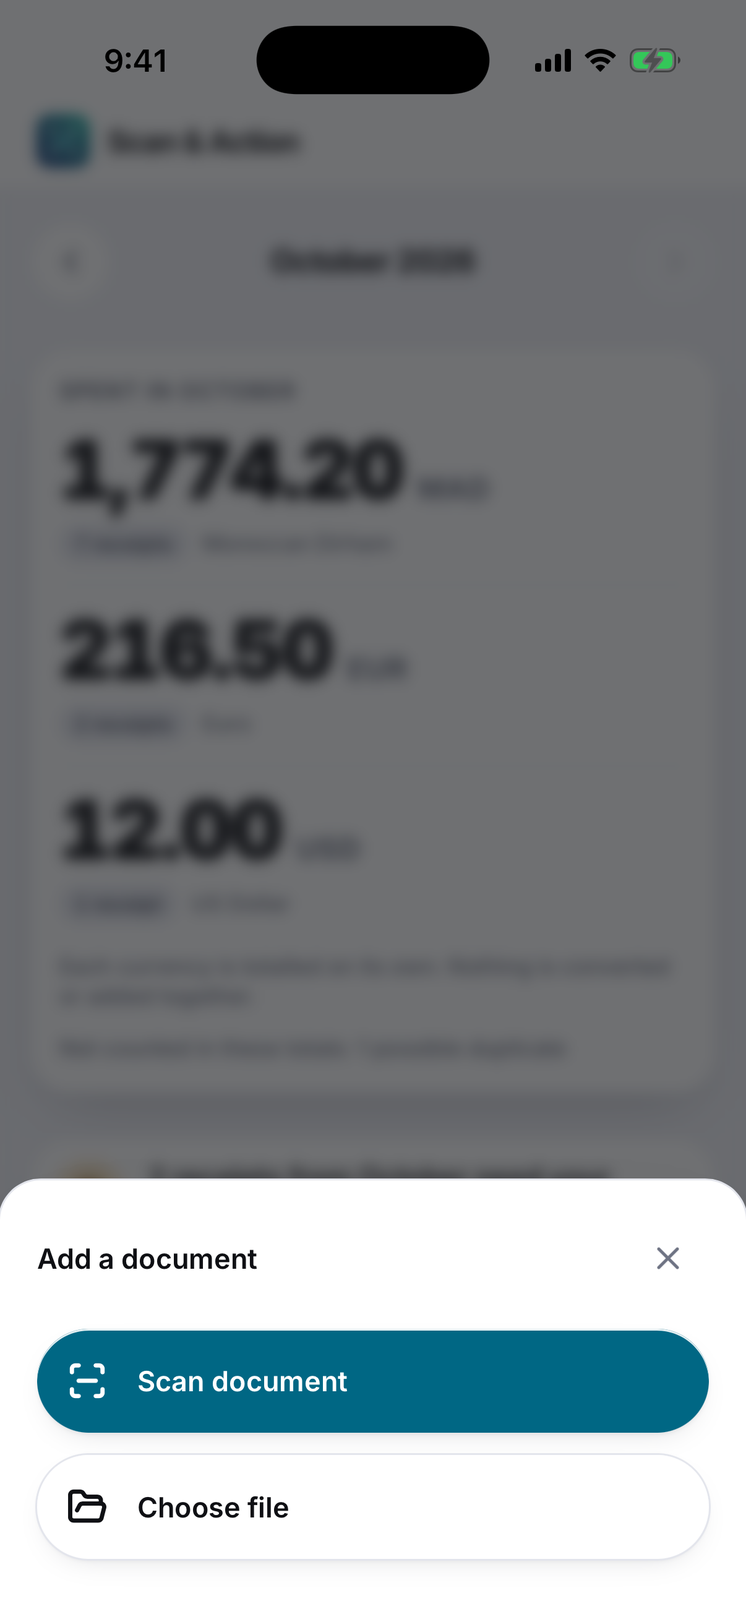
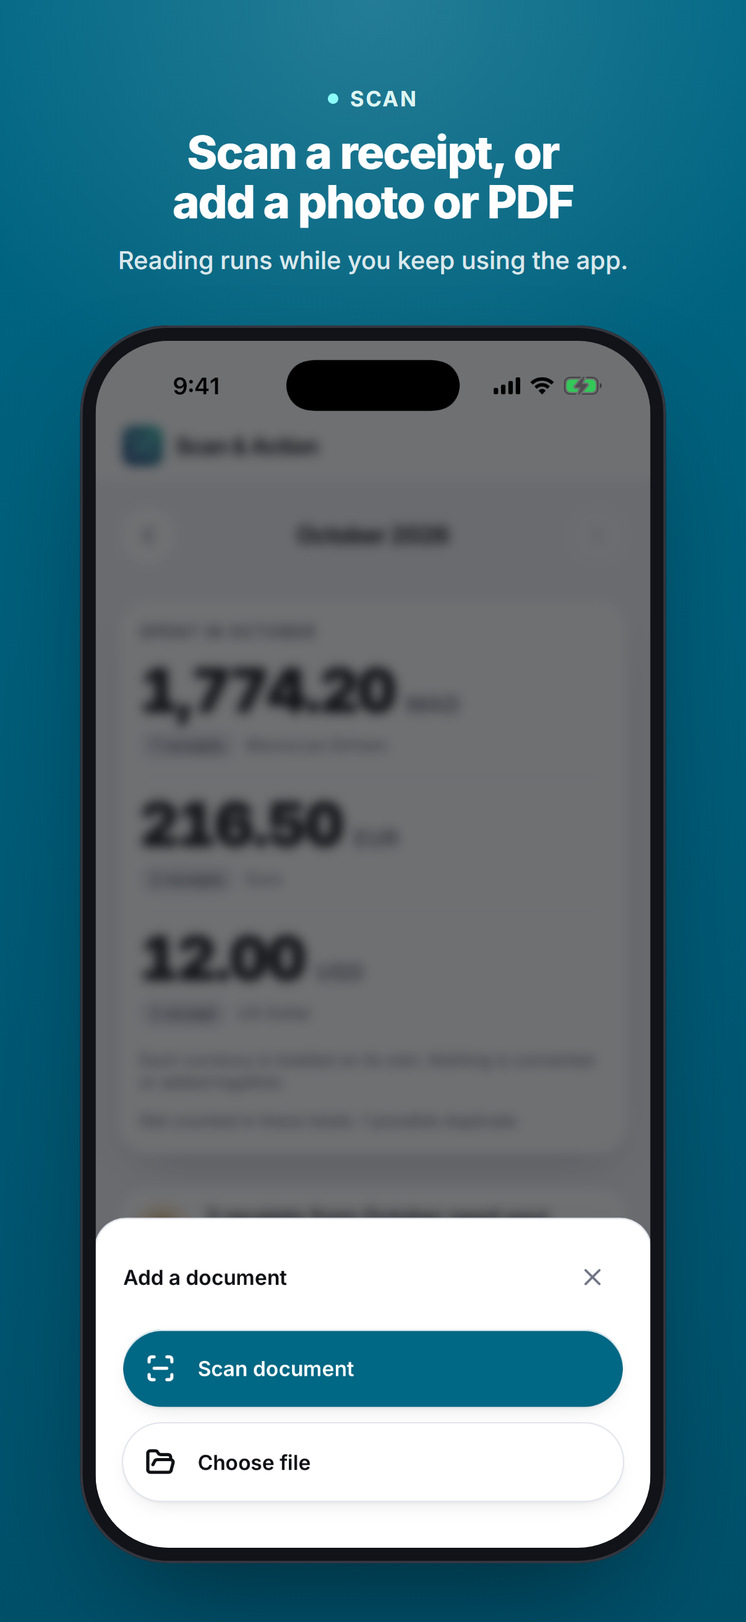
store: the approved App Store set (direction C), its template, the board record of 2026-10-15
The owner rejected the plain set (#328) as a store presentation and
approved direction C: each frame a real simulator capture of the app
inside a phone drawn in CSS, on the brand teal, under a caption he
approved word for word. Captures from run 38803643978 (frames 1, 2, 4,
5; app at 1449e6f8) and run 38763571358 (frame 3: the newer run shot
Detail before the receipt photo loaded; app code and fixtures identical
between the runs). Composed by source/frame-c.html and source/render-c.sh
at the slots' exact pixels, RGB, no alpha; the ten files are byte-
identical to the reviewed page.

WORK-QUEUE.md records the day: the merges of #327 and #328, the push
event GitHub never processed on 1449e6f8 and the probe this merge is, the
App Store Connect state as set, the privacy checks, the sign-in keyboard
finding, and the post-launch queue-reason item. Nothing under apps/ or
.github/ changes.

diff --git a/store/app-store/1.0/source/frame-c.html b/store/app-store/1.0/source/frame-c.html
@@ -1,0 +1,62 @@
+<!doctype html>
+<html><head><meta charset="utf-8">
+<link rel="stylesheet" href="https://fonts.googleapis.com/css2?family=Inter:wght@500;700;800&display=swap">
+<style>
+/* Direction C, complete phone. One composition in "u" units (1u = canvas width / 440),
+   so 1320 x 2868 (440 x 956 CSS at 3x) and 1206 x 2622 (402 x 874 CSS at 3x) are the
+   same picture at two sizes. Caption box and phone box are fixed: same scale, same
+   caption position, same margins on every frame. */
+html, body { margin: 0; background: #00506A; }
+#c { position: relative; overflow: hidden; width: var(--W); height: var(--H);
+  font-family: Inter, system-ui, sans-serif; color: #FFFFFF; background: linear-gradient(180deg, #006784 0%, #00506A 100%); }
+#c::before { content: ''; position: absolute; inset: 0; background: radial-gradient(90% 40% at 50% 0%, rgba(255,255,255,.14), rgba(255,255,255,0) 70%); }
+#cap { position: absolute; left: calc(18 * var(--u)); right: calc(18 * var(--u)); top: calc(44 * var(--u)); height: calc(160 * var(--u)); text-align: center; overflow: hidden; }
+#eye { display: inline-flex; align-items: center; gap: calc(7 * var(--u)); font-size: calc(12.5 * var(--u)); font-weight: 700; letter-spacing: .08em; text-transform: uppercase; color: #DFF4F2; margin-bottom: calc(10 * var(--u)); }
+#eye i { width: calc(6 * var(--u)); height: calc(6 * var(--u)); border-radius: 99px; background: #8CFCF9; display: inline-block; }
+#t { margin: 0; font-weight: 800; font-size: calc(27 * var(--u)); line-height: 1.08; letter-spacing: -.025em; text-wrap: balance; }
+#s { margin: calc(10 * var(--u)) auto 0; font-weight: 500; font-size: calc(14.5 * var(--u)); line-height: 1.35; color: rgba(255,255,255,.86); text-wrap: balance; }
+/* The phone: a generic body drawn in CSS around the full simulator capture. */
+#dev { position: absolute; left: 50%; transform: translateX(-50%); top: calc(192 * var(--u)); height: calc(730 * var(--u));
+  aspect-ratio: auto; padding: calc(9 * var(--u)); box-sizing: border-box; border-radius: calc(52 * var(--u)); background: #121318;
+  box-shadow: inset 0 0 0 calc(1.5 * var(--u)) #34363F, 0 calc(34 * var(--u)) calc(70 * var(--u)) calc(-26 * var(--u)) rgba(0,20,28,.65); }
+#dev img { display: block; height: 100%; width: auto; border-radius: calc(43 * var(--u)); }
+#check { display: none; }
+</style></head>
+<body><div id="c"><div id="cap"><div id="eye"><i></i><span id="e"></span></div><h1 id="t"></h1><p id="s"></p></div><div id="dev"><img id="img" alt=""></div></div>
+<pre id="check"></pre>
+<script>
+// The approved captions, exactly (owner, 2026-10-15).
+const FRAMES = {
+  1: ['Home', 'See what this month cost, in each currency', 'Each currency is totalled on its own, never converted.'],
+  2: ['Scan', 'Scan a receipt, or add a photo or PDF', 'Reading runs while you keep using the app.'],
+  3: ['Receipt', 'Merchant, total and date, read for you', 'The receipt photo stays one tap away.'],
+  4: ['Review', 'Approve or reject what needs a second look', 'Receipts that need a person wait in one place.'],
+  5: ['Search', 'Find any receipt by merchant, category or month', 'Totals for what you found, one per currency.'],
+};
+const p = new URLSearchParams(location.search);
+const W = Number(p.get('w') || 440), H = Number(p.get('h') || 956), n = p.get('n') || '1';
+const c = document.getElementById('c'); c.style.setProperty('--u', (W / 440) + 'px'); c.style.setProperty('--W', W + 'px'); c.style.setProperty('--H', H + 'px');
+const [e, t, s] = FRAMES[n];
+document.getElementById('e').textContent = e; document.getElementById('t').textContent = t; document.getElementById('s').textContent = s;
+const img = document.getElementById('img');
+img.onload = () => document.fonts.ready.then(() => {
+  const r = (el) => el.getBoundingClientRect();
+  const C = r(c), cap = r(document.getElementById('cap')), dev = r(document.getElementById('dev')), I = r(img);
+  const inner = ['eye', 't', 's'].map((id) => r(document.getElementById(id)));
+  const out = {
+    n, w: C.width, h: C.height,
+    capText: [e, t, s].join(' | '),
+    noDash: !/[\u2014\u2013]/.test([e, t, s].join('')),
+    captionFits: inner.every((b) => b.top >= cap.top - 0.5 && b.bottom <= cap.bottom + 0.5 && b.left >= cap.left - 0.5 && b.right <= cap.right + 0.5),
+    titleLines: Math.round(r(document.getElementById('t')).height / (parseFloat(getComputedStyle(document.getElementById('t')).lineHeight))),
+    subLines: Math.round(r(document.getElementById('s')).height / (parseFloat(getComputedStyle(document.getElementById('s')).lineHeight))),
+    gapCaptionToPhone: +(dev.top - inner[2].bottom).toFixed(1),
+    phoneInside: dev.left >= C.left && dev.right <= C.right && dev.top >= C.top && dev.bottom <= C.bottom,
+    marginBottom: +(C.bottom - dev.bottom).toFixed(1), marginSide: +(dev.left - C.left).toFixed(1),
+    screenWholeInPhone: I.top >= dev.top && I.bottom <= dev.bottom && I.left >= dev.left && I.right <= dev.right,
+    imgNatural: [img.naturalWidth, img.naturalHeight], screenScale: +(I.width / C.width).toFixed(4),
+  };
+  document.getElementById('check').textContent = JSON.stringify(out);
+});
+img.src = p.get('img');
+</script></body></html>

diff --git a/WORK-QUEUE.md b/WORK-QUEUE.md
@@ -744,6 +744,81 @@ revocation row removed 2026-09-30), the index; details under each item:**
 |---|---|---|
 | Trader status for the EU (VERIFIED 2026-10-12 12:39, the owner's reading) | the owner, App Store Connect | MET: at submission, ask App Store Connect again whether the trader status reads verified |
 
+**Submission preparation, read and set on 2026-10-15 (the PR recording this
+line is the push-delivery probe; see "The push event that was never
+processed" below).**
+
+- **Merges that day.** #327 (`4dd2bdcd`, the board) at 14:18:27Z: CI and
+  Password policy drift ran on push, Vercel production deployment
+  `dpl_a4pZG3TYxTytZxDZZfgiqUEdoxEz` READY for that commit, Railway status
+  `amiable-dream - scan-and-action` success, `/api/version` reported
+  `4dd2bdcd` (all read that day). #328 (`1449e6f8`, the plain screenshots,
+  `store/` only) at 16:37:18Z: see the next item.
+- **The push event that was never processed (#328, `1449e6f8`).** `main`
+  moved (`git ls-remote origin refs/heads/main`), but GitHub never processed
+  the push: `gh api repos/{owner}/{repo} --jq .pushed_at` stayed at
+  2026-10-15T16:31:47Z (the branch push before the merge), `commits/1449e6f8/
+  check-suites` reads `total_count` 0, `check-runs` 0, `status` 0 statuses,
+  no Vercel deployment for the commit (`GET /v6/deployments?projectId=
+  prj_EoI5sC5liuxOWe3nBMAKYviAnVUV`), `/api/version` still `4dd2bdcd`, 35
+  minutes on. No repository webhook exists (`hooks` reads 0), Actions is
+  enabled (`actions/permissions`), no incident on githubstatus.com for the
+  day. The merged tree was still verified: `1449e6f8`'s tree
+  `54e712991f85e0752f450f5daaf59e06b7ebee44` equals the tree of `acc9457f`,
+  the merge commit PR run 38769773748 checked out and passed. Production is
+  unaffected: the commit changed nothing under `apps/`. Diagnosis: a one-off,
+  not broken delivery, about 80%. **The probe:** the merge of the PR
+  recording this line (store files and this board, nothing under `apps/` or
+  `.github/`). Five readings on its merge commit: a `push` run of CI and of
+  Password policy drift; `pushed_at` equal to the merge time; a Vercel
+  production deployment READY for the commit, read from the Vercel API
+  filtered to the project; the Railway status success; `/api/version` on the
+  commit. **If any reading is missing, the submission-build PR does not
+  merge** and the case goes to GitHub support with both commits.
+- **App Store Connect, version 1.0 (Prepare for Submission), as set that
+  day by a session in the owner's signed-in browser.** App Accessibility:
+  Dark Interface declared for iPhone, saved as a draft (the console: "You can
+  publish your accessibility support for devices that have an app version
+  released on the App Store"); nothing else declared, by the owner's
+  decision (Larger Text: the text cap is about 1.35, Apple asks about 200%;
+  Sufficient Contrast: the audit measures text only; VoiceOver and Voice
+  Control untested). Proof for Dark Interface: run 38784782735
+  (`proof/dark-interface`), nine common tasks with no stored theme under the
+  system in Dark and in Light, plus the in-app Switch to dark mode, every
+  dark frame's contrast audit clean. App Review Information › Notes: the
+  owner's approved text (1,492 characters, exact), arguing 3.1.3(f) and
+  naming where to scan and where Approve and Reject are; Sign-In
+  Information: "Sign-in required" checked, User name and Password empty,
+  the owner's to type. App Privacy: unchanged (published 17 days earlier, 6
+  data types, no Diagnostics). Two checks behind that: no `SENTRY_DSN`
+  anywhere in the production service's resolved variables (`railway
+  variables --service scan-and-action --environment production --json`,
+  names only, 18 keys besides `RAILWAY_*`; the owner's own reading agrees),
+  and the Discord alerts (`DISCORD_ALERT_WEBHOOK_URL`) are sent only from
+  `webhookController.ts`, the Paddle web-billing path, carrying Paddle and
+  our own UUIDs and an error message, never an email or a name
+  (`discordAlert.ts` contract lines 15 to 18); web purchases are not data
+  collected from the app. Age rating: complete, 4+, every question answered
+  (`/iris/v1/apps/6816574766/appInfos?include=ageRatingDeclaration` from
+  the signed-in page; the three empty fields are the Kids band, the Korean
+  GRAC number and the optional age-suitability URL). Build: none attached;
+  every TestFlight build 5 to 34 reads `buildAudienceType INTERNAL_ONLY`
+  (same API, `/iris/v1/builds?filter[app]=6816574766`), by design of
+  `testFlightInternalTestingOnly` in `ExportOptions.plist`; the
+  submission-build PR removes it.
+- **Token revocation on account deletion: confirmed closed by #272**
+  (2026-09-30; the item "Submission is BLOCKED until Apple token revocation
+  on account deletion ships" below holds the evidence). The comment in
+  `ExportOptions.plist` tying the key to it is stale, as marked; the
+  submission-build PR corrects it.
+- **OPEN DECISION, the owner's:** "App Store Version Release" reads
+  "Automatically release this version" (read 2026-10-15), so approval would
+  publish at once; "Manually release this version" is under his
+  consideration. Nothing was changed.
+- **Found, not fixed: the sign-in screen with the keyboard up.** Recorded
+  under "Login rejected by the owner on 2026-09-25" in the DESIGN TRACK; the
+  fix is proposed there and waits for his word.
+
 **Conditions blocking republishing on Play (opened 2026-10-08).** The Android
 row moved here from the App Store list: the owner's sign-in condition for the
 App Store was met on iOS on 2026-09-28 (the first TestFlight build signed in
@@ -2077,6 +2152,23 @@ restyled.** Do not start at login, although a reviewer sees it first:
     - **What must hold:** the password policy (`passwordPolicy.ts` and its
       drift test), the recovery routing, the error localisation tests.
     - **EXPIRY:** the owner approves a redrawn Login on his iPhone.
+    - **Found 2026-10-15 on the simulator, not fixed (rule 6, STANDING
+      RULES):** the email field takes focus on load (`autoFocus` in
+      `AuthScreen.tsx`), so the keyboard is up on the reviewer's first
+      screen. Run 38793495512 (`proof/signin-keyboard`): iPhone 16e, 17 Pro
+      and 17 Pro Max, light and dark. The email field, the password field
+      and the Sign in button stay inside the visible area and are the
+      topmost element at their centre on every device (a tap reaches them;
+      on the 16e the button's bottom is at 401 of 509 visible px). The flaw:
+      on the 16e and the 17 Pro iOS scrolls the page by 68 to 82 px, so the
+      clock, the battery and the Dynamic Island draw over the "Scan &
+      Action" bar and the language pills, and the "Sign in" heading slips
+      under the status bar; the keyboard's form bar also covers Continue
+      with Apple and Google, which email sign-in does not need. Review risk:
+      low for function. **Proposed fix, one small `AuthScreen.tsx` change:**
+      no autofocus on native, so the first screen opens with the keyboard
+      down, and an opaque band under the status bar as the main `Layout`
+      has; proven with the same run before and after.
 - [ ] **6. The rest.** Documents and search, the review queue, settings with
   account deletion reachable, and the web-only paywall.
   - **Search is redrawn from zero in its own PR. DONE: approved by the owner
@@ -2100,18 +2192,49 @@ restyled.** Do not start at login, although a reviewer sees it first:
       was closed by #248.
     - **What it becomes:** a search field, category chips and a month filter,
       with results as the same rows as Home.
-- [ ] **7. Store screenshots**, taken from the finished UI. **IN PROGRESS
-  (2026-10-15).** What applies, read that day: App Store Connect's version
-  1.0 page asks for "iPhone with Dynamic Island (medium display)", 0 of 10
-  (1206 x 2622 or 1179 x 2556; Apple's screenshot specifications page lists
-  that class under "Required device sizes"). No iPad set: the project
-  builds for iPhone only (`TARGETED_DEVICE_FAMILY = 1` in
-  `project.pbxproj`, pinned by `iosPlatform.test.ts`). One listing
-  localization: English (U.S.), primary. iPhone Duo screenshots become
-  required from April 2027 for apps built with the iOS 27.1 SDK or later;
-  build 34 was built with Xcode 26.6 (17F113), so not now. The set is shot
-  from main's app on the simulator with fictional data; the review and the
-  upload are the owner's.
+- [ ] **7. Store screenshots: BUILT and APPROVED 2026-10-15, in the PR that
+  records this line; the upload to App Store Connect follows its merge.**
+  - **What applies, read 2026-10-15:** App Store Connect's version 1.0 page
+    asks for "iPhone with Dynamic Island (medium display)" (1206 x 2622 or
+    1179 x 2556; Apple's screenshot specifications page lists that class
+    under "Required device sizes"); "iPhone with Dynamic Island (large
+    display)" (1320 x 2868) is optional and otherwise borrows the medium set.
+    No iPad set: the project builds for iPhone only (`TARGETED_DEVICE_FAMILY
+    = 1` in `project.pbxproj`, pinned by `iosPlatform.test.ts`). One listing
+    localization: English (U.S.), primary. iPhone Duo screenshots become
+    required from April 2027 for apps built with the iOS 27.1 SDK or later;
+    build 34 was built with Xcode 26.6 (17F113), so not now. Guideline 2.3.3,
+    read the same day: screenshots "should show the app in use" and "may also
+    include text and image overlays".
+  - **The plain set (#328, `1449e6f8`): REJECTED by the owner 2026-10-15** as
+    a store presentation; it was uploaded that day into both Dynamic Island
+    slots (5 of 10 each) and still sits there until the replacement below.
+    His reference: the captioned dark set of 2026-09-29 from the web harness
+    (`D:\RAGHAD JAD\store-screenshots\2026-09-29\`, outside the repository),
+    whose six frames he removed from "iPhone with Face ID (large display)"
+    the same day (Media Manager › Remove All; the slot now reads 0 of 10 and
+    falls back to the Dynamic Island large set, the console's own wording).
+  - **Direction C, "Teal field": CHOSEN by the owner from three directions
+    and APPROVED as built, frame 1 included.** Each frame is a real simulator
+    capture of the restyled app (fictional October data) inside a generic
+    phone drawn in CSS, complete to the tab bar, on the brand teal, under a
+    caption he approved word for word. Captures: run 38803643978
+    (`proof/store-shots-c`, app at `1449e6f8`) for frames 1, 2, 4 and 5; run
+    38763571358 for frame 3, because the newer run shot Detail before the
+    receipt photo loaded (the app code and the fixtures are byte-identical
+    between the runs). Composition: `store/app-store/1.0/source/frame-c.html`
+    rendered by `source/render-c.sh` (headless Chrome, device scale factor
+    3), the screen at 0.744 of the canvas width, one scale and one caption
+    position for all ten files. Checks on all ten: exact pixels, RGB, no
+    alpha, caption text exact with no dash, title on two lines, the whole
+    phone inside the canvas, the capture's own layout and contrast audits
+    clean. `store/app-store/1.0/README.md` has the detail.
+  - **Next, after the merge of the PR recording this line:** in App Store
+    Connect › Media Manager › iPhone, Remove All on each Dynamic Island slot,
+    upload the five files of each size in order 01 to 05, read back "5 of
+    10" and the order in both, and confirm "iPhone with Face ID (large
+    display)" still falls back to the new large set. The owner is told before
+    each Remove All.
 
 ### Inputs, filed under the step that redraws them — not a checklist
 
@@ -2961,6 +3084,16 @@ This is also Apple 3.1.3(f)'s condition, word for word (APPLE TRACK), and
 
 ### Other kept items
 
+- [ ] **Post-launch: show the review reason on the queue cards.** Today a
+  queue card renders one status chip from the document's status alone
+  (`ReviewQueueScreen.tsx`, `getStatus` in `lib/searchResultCard.ts`); the
+  rule engine's reason (`decision_reason`, a fixed English phrase per rule,
+  translated by `translateDecisionReasons`) shows only on the receipt's
+  Detail. The store frame of the queue was captioned accordingly ("Approve or
+  reject what needs a second look"), so nothing on the product page claims
+  the reason is on the card. Raised 2026-10-15 during the screenshot review;
+  the owner placed it after the App Store submission. Small frontend change;
+  reshoot frame 4 afterwards.
 - [x] **Android: cap the WebView's text zoom natively: MERGED 2026-10-13 as
   #317 (`9757a2a1`), TestFlight build 30** (run 38453792409: "ARCHIVE
   SUCCEEDED", "Uploaded build 30 … for commit 9757a2a1…"; `gh run view

diff --git a/store/app-store/1.0/README.md b/store/app-store/1.0/README.md
@@ -1,7 +1,11 @@
 # App Store screenshots, version 1.0
 
 The iPhone set for the App Store product page, English (U.S.), the listing's
-only localization. Not uploaded: the review and the upload are the owner's.
+only localization. Approved by the owner on 2026-10-15 (direction C, "Teal
+field") after he rejected the plain, uncaptioned set that preceded it. What
+App Store Connect holds is read there, in Media Manager; this file does not
+track it. As of 2026-10-15 the replacement in both Dynamic Island slots was
+still to be done, after the PR carrying these files merges.
 
 | Folder | Size (portrait) | App Store Connect slot |
 |---|---|---|
@@ -15,6 +19,10 @@ What applies, read on 2026-10-15:
   list "iPhone: At least one screenshot for iPhone with Dynamic Island (medium
   display)" under "Required device sizes", and App Store Connect's version 1.0
   page shows exactly that slot. PNG or JPEG, no alpha, 1 to 10 per size.
+- App Review Guideline 2.3.3, read the same day: "Screenshots should show the
+  app in use, and not merely the title art, login page, or splash screen. They
+  may also include text and image overlays". Every frame is a working screen;
+  the caption is the overlay. 2.3.7: no price or plan appears anywhere.
 - No iPad set: the app builds for iPhone only (`TARGETED_DEVICE_FAMILY = 1` in
   `apps/frontend/ios/App/App.xcodeproj/project.pbxproj`).
 - iPhone Duo screenshots become required from April 2027 for apps built with
@@ -22,47 +30,71 @@ What applies, read on 2026-10-15:
 
 ## The frames, in order
 
-1. `01-home`: the month's total for each currency, never added together.
-2. `02-capture`: adding a document (the system scanner or a file).
-3. `03-detail`: one receipt, its photo, and what was read from it.
-4. `04-queue`: the receipts that need a person, with Approve and Reject.
-   Both show their amount: Station Nour 400.00 MAD and Régie Al Amal 612.80
-   MAD. The queue card shows no review reason (the card renders the status
-   only, `ReviewQueueScreen.tsx`); the reason shows on the receipt's Detail.
-   The fixtures still carry each reason the rule engine would give: "Total
-   not printed" (Rule E) and "Amount exceeds threshold" (Rule A, over 500).
-5. `05-search`: a month's receipts, with each currency's total.
+Each frame is one real simulator capture of the app, complete (the whole
+screen down to the tab bar), inside a generic phone body drawn in CSS, on the
+brand teal, under a caption. The captions, approved by the owner as written:
+
+| # | File | Eyebrow | Title | Line under it |
+|---|---|---|---|---|
+| 1 | `01-home` | Home | See what this month cost, in each currency | Each currency is totalled on its own, never converted. |
+| 2 | `02-capture` | Scan | Scan a receipt, or add a photo or PDF | Reading runs while you keep using the app. |
+| 3 | `03-detail` | Receipt | Merchant, total and date, read for you | The receipt photo stays one tap away. |
+| 4 | `04-queue` | Review | Approve or reject what needs a second look | Receipts that need a person wait in one place. |
+| 5 | `05-search` | Search | Find any receipt by merchant, category or month | Totals for what you found, one per currency. |
+
+Each caption claims only what its screen shows: Home's own note reads "Each
+currency is totalled on its own. Nothing is converted or added together";
+frame 2 is the Add a document sheet (Scan document, Choose file) and Detail's
+reading note says the Queue shows the result; Detail shows the three read
+values and "Open original source"; the Queue cards carry Approve and Reject;
+Search has its field, category chips, month and per-currency totals. No
+caption contains a dash. The queue card shows no review reason (the card
+renders the status only, `ReviewQueueScreen.tsx`); the reason shows on the
+receipt's Detail.
+
+Home and Search run on under the tab bar and Search's category chips scroll
+sideways: that is the app's own screen edge inside a complete screen, not a
+crop of the frame (the owner accepted it, 2026-10-15).
 
 ## How they were made
 
-From the app at `main` `0fedd179` (the code of TestFlight build 34) on the iOS
-26.5 simulator, iPhone 17 Pro and iPhone 17 Pro Max, light, default text size,
-the status bar at 9:41 with a full battery. The network was replaced by
-fixtures (`source/sa-proof.js`): every merchant, amount, date and file name is
-invented, no real user's data and no review account's data, and no real brand
-name (App Store Review Guideline 5.2). The receipt photo is drawn by
-`source/receipt.mjs` and its lines add up to the total Detail shows.
+Two steps, both free and both reproducible.
 
-Run 38664852917 on the throwaway branch `proof/store-shots` shot the first
-set. Frames 1, 2, 4 and 5 were reshot on 2026-10-15 by run 38763571358 on
-`proof/store-shots-2` (app code at `main` `4dd2bdcd`, whose `apps/` tree is
-`0fedd179`'s), after the queue's receipt with no amount was replaced: frame 4
-changed, and frames 1, 2 and 5 changed with it because Home and Search read
-the same month (Home now says 2 receipts need review, Search marks Régie Al
-Amal "Needs review"). Frame 3 is the first run's file: the second run gave it
-byte-identical on the large set and a shadow-only difference on the medium.
-The files here are the frames converted to RGB (pixels unchanged, the alpha
-channel, opaque everywhere, removed), with `source/store-shots.yml` as the
-workflow.
+**1. The captures.** From the app on the iOS 26.5 simulator, iPhone 17 Pro
+(1206 x 2622) and iPhone 17 Pro Max (1320 x 2868), light, English, default
+text size, the status bar at 9:41 with a full battery. The network is replaced
+by fixtures (`source/sa-proof.js`): every merchant, amount, date and file name
+is invented, no real user's data and no review account's data, and no real
+brand name (App Store Review Guideline 5.2). The receipt photo is drawn by
+`source/receipt.mjs` and its lines add up to the total Detail shows. The
+workflow is `source/store-shots.yml`; `source/screens.mjs` lists the screens.
+Every capture passed the in-page layout audit (no text cut, nothing
+overlapping, no sideways scroll) and the contrast audit (no text pair under
+4.5:1).
 
-`02-reading` in `source/screens.mjs` is a candidate that was shot and not
-chosen: Detail while a scan is read. It is a loading state (a skeleton for the
-amount, a grey "Processing" chip, the lower third empty) and it shows neither
-way of adding a document, so frame 2 stays the Add a document sheet. The
-system scanner itself cannot be shot: the simulator has no camera. Every frame passed
-the in-page layout audit (no text cut, nothing overlapping, no sideways
-scroll) and the contrast audit (no text pair under 4.5:1).
+- Frames 1, 2, 4 and 5: run 38803643978 on the throwaway branch
+  `proof/store-shots-c`, app code at `main` `1449e6f8`.
+- Frame 3: run 38763571358 on `proof/store-shots-2`, app code at `main`
+  `4dd2bdcd`. Run 38803643978 shot Detail before the receipt photo had loaded,
+  in both sizes (a grey box where the photo goes), as run 38784782735 had the
+  day before, even with a 9 s wait; run 38763571358 has the photo. The app
+  code under `apps/` and the fixtures (`sa-proof.js`, `sa-receipt.jpg`, the
+  audit scripts) are byte-identical between the two runs, so the screen is
+  the same; only the photo's load time differs.
+
+**2. The composition.** `source/render-c.sh <captures> <out>` renders
+`source/frame-c.html` with headless Chrome at device scale factor 3: the
+caption at the top, the phone below it, the capture filling the phone's
+screen. One composition in units of the canvas width, so both sizes and all
+five frames share the same scale (the screen at 0.744 of the canvas width),
+the same caption position and the same margins. The page measures itself and
+writes a `.check.json` beside each PNG: the caption text as rendered, the
+title on two lines and the line under it on one, the phone inside the canvas,
+the whole screen inside the phone. For this set every check passed on all ten
+files, each file is exactly 1206 x 2622 or 1320 x 2868, RGB with no alpha, and
+the ten files are byte-identical (sha256) to the ones the owner reviewed.
 
 To reshoot after a UI change: put `source/` back at `.github/dt-proof/` and
 `source/store-shots.yml` at `.github/workflows/` on a throwaway branch from
-main, push, and take the frames from the run's artifact.
+main, push, take the captures from the run's artifact, then run
+`source/render-c.sh` on them and look at every frame before replacing these.
